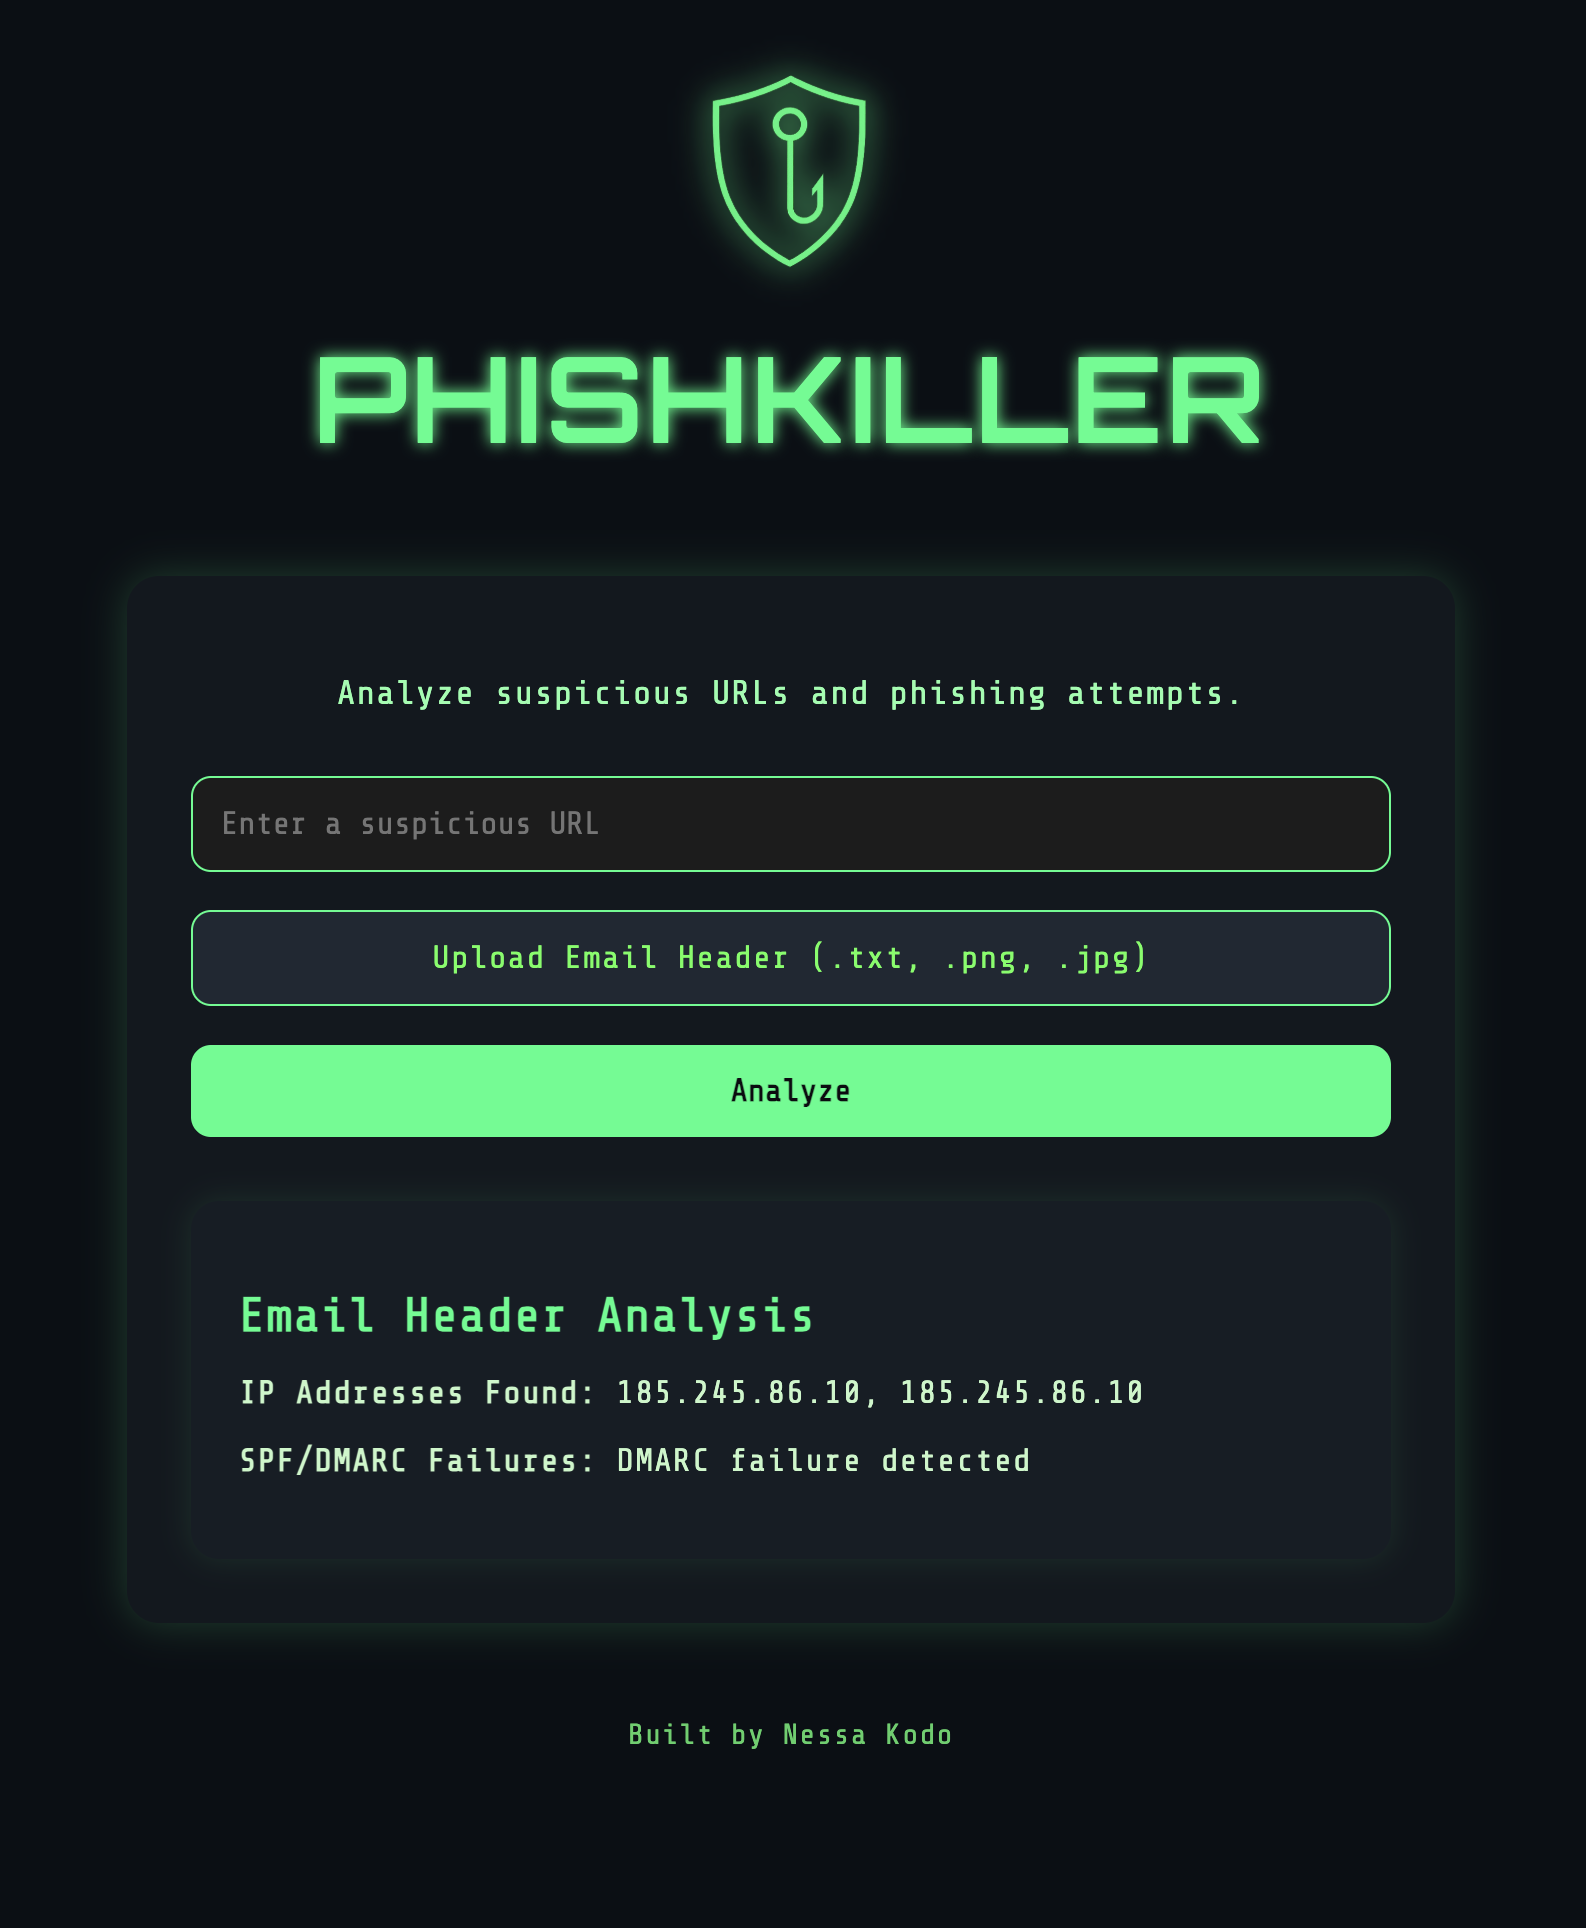
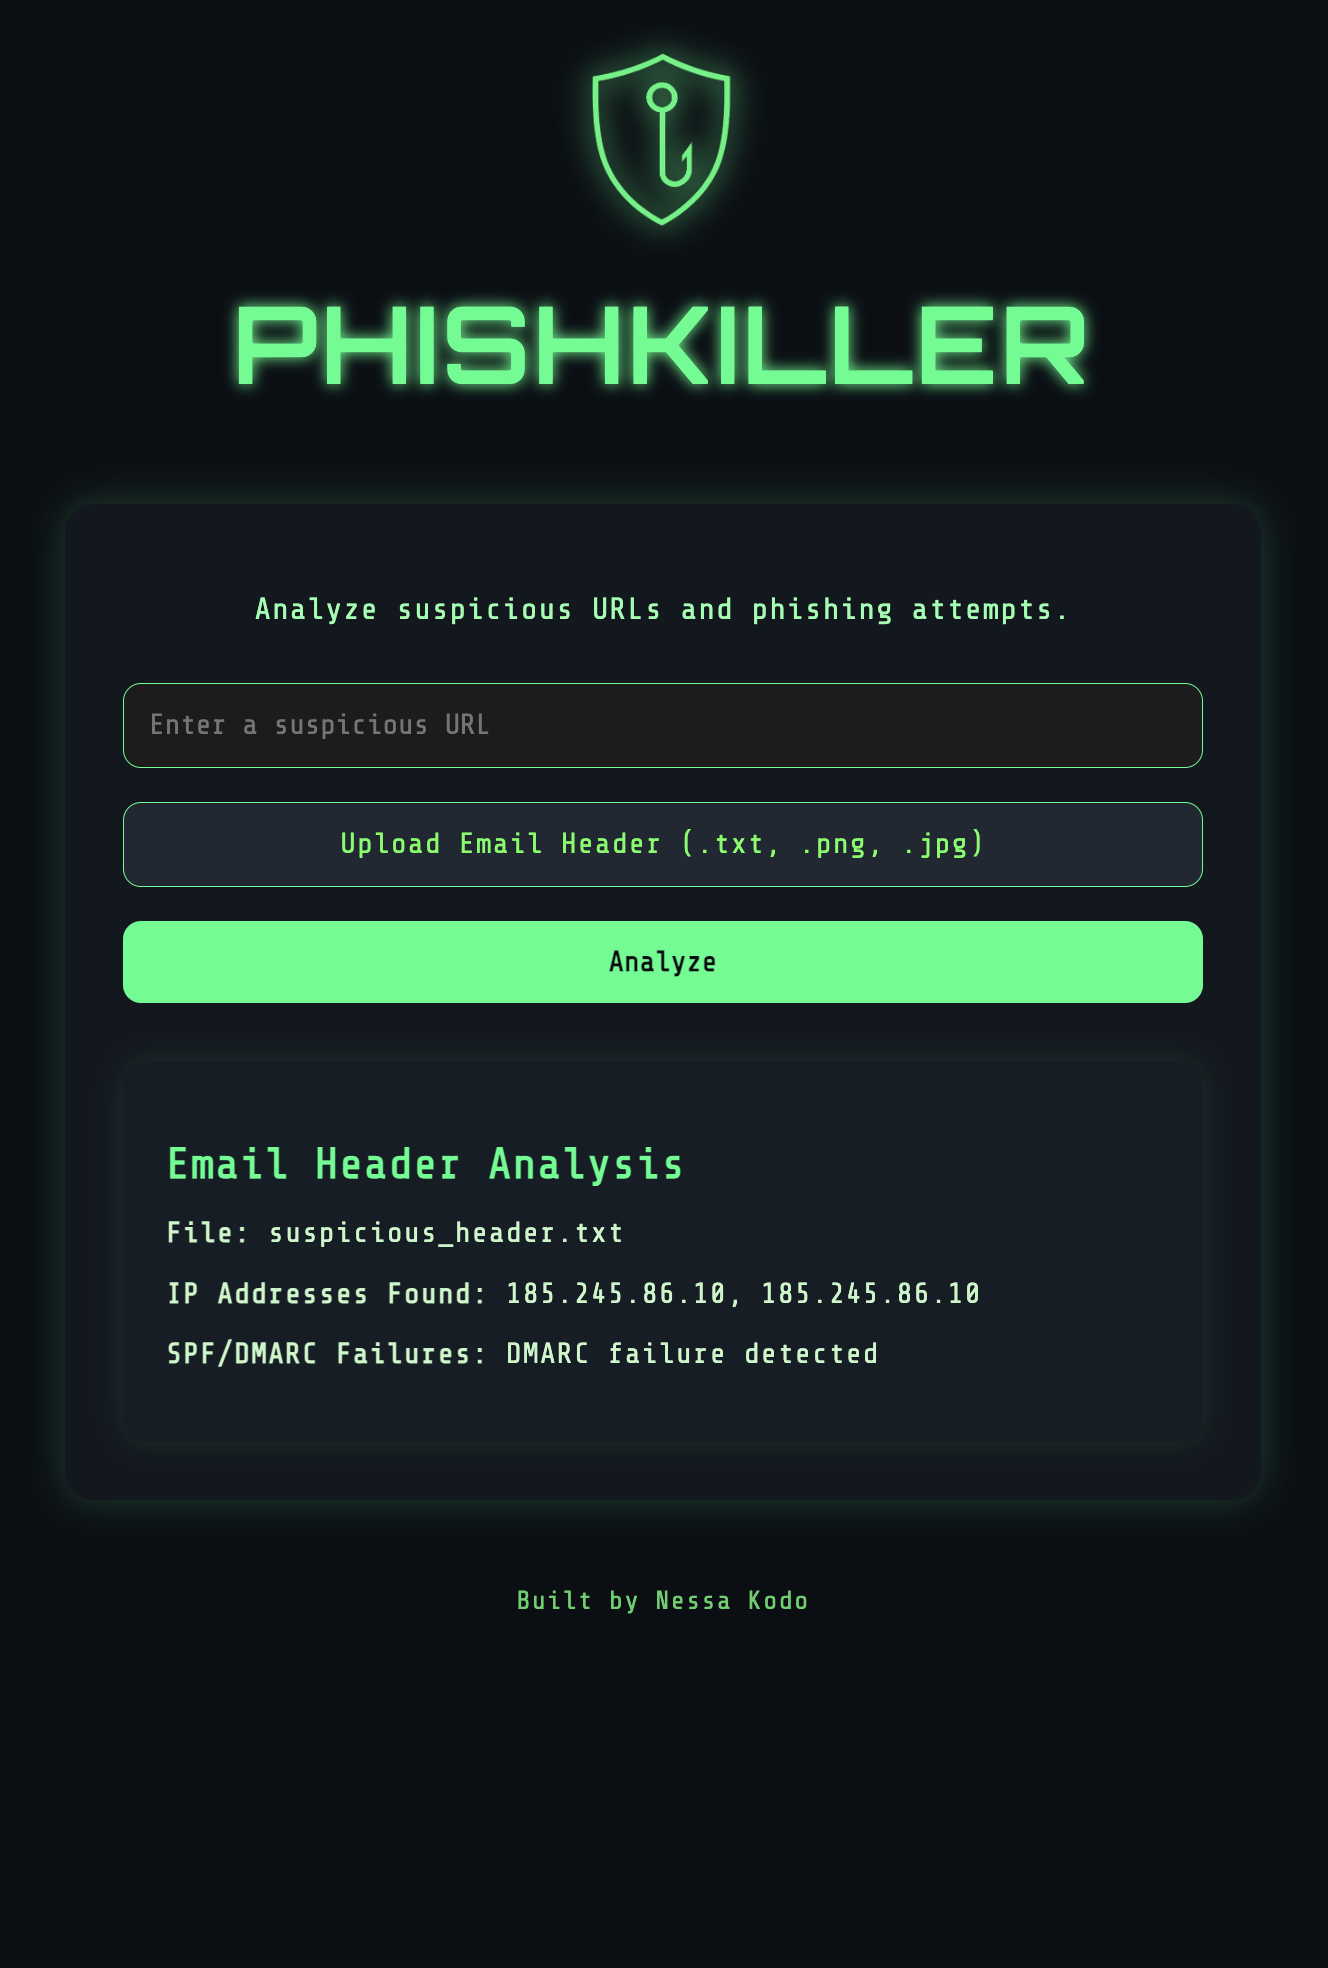
additions to work with real gmail headers and output for no phishing detection updated

diff --git a/templates/index.html b/templates/index.html
@@ -251,10 +251,20 @@
     {% if header_analysis %}
     <div class="card">
       <h2>Email Header Analysis</h2>
+    
+      {% if header_analysis.filename %}
+      <p><strong>File:</strong> {{ header_analysis.filename }}</p>
+      {% endif %}
+    
+      {% if header_analysis.ocr_error %}
+      <p style="color: red;"><strong>OCR Error:</strong> {{ header_analysis.ocr_error }}</p>
+      {% endif %}
+    
       <p><strong>IP Addresses Found:</strong> {{ header_analysis.ips | join(', ') }}</p>
       <p><strong>SPF/DMARC Failures:</strong> {{ header_analysis.spf_dmarc_failures | join(', ') }}</p>
     </div>
     {% endif %}
+    
 
   </div>
 

diff --git a/app.py b/app.py
@@ -1,10 +1,16 @@
-from flask import Flask, render_template, request
+from flask import Flask, render_template, request, flash
 from analyzer import analyze_url, analyze_header_text
 import pytesseract
-from PIL import Image
+from PIL import Image, ImageEnhance, ImageFilter
 import io
 
+# Tell pytesseract where Tesseract is (especially important for Mac/Linux)
+# pytesseract.pytesseract.tesseract_cmd = '/usr/local/bin/tesseract'
+pytesseract.pytesseract.tesseract_cmd = '/opt/homebrew/bin/tesseract'
+
+
 app = Flask(__name__)
+app.secret_key = 'your_secret_key_here'  # Needed for flash messages
 
 @app.route('/', methods=['GET', 'POST'])
 def home():
@@ -25,13 +31,50 @@ def home():
             header_file = request.files['header']
             filename = header_file.filename.lower()
 
-            if filename.endswith(('.png', '.jpg', '.jpeg')):
-                image = Image.open(io.BytesIO(header_file.read()))
-                header_text = pytesseract.image_to_string(image)
-            else:
-                header_text = header_file.read().decode('utf-8')
+            header_text = ""
+            ocr_error = None
 
-            results = analyze_header_text(header_text)
+            if filename.endswith(('.png', '.jpg', '.jpeg')):
+                try:
+                    # Open image safely
+                    image = Image.open(io.BytesIO(header_file.read()))
+                    
+                    # Standardize to RGB
+                    image = image.convert('RGB')
+                    
+                    # Convert to Grayscale
+                    image = image.convert('L')
+                    
+                    # Enhance Contrast
+                    enhancer = ImageEnhance.Contrast(image)
+                    image = enhancer.enhance(2.0)  # 2x contrast
+                    
+                    # Slightly sharpen
+                    image = image.filter(ImageFilter.SHARPEN)
+
+                    # Run OCR
+                    header_text = pytesseract.image_to_string(image)
+
+                except Exception as e:
+                    ocr_error = f"OCR failed: {str(e)}. Please upload a .txt file instead."
+            else:
+                try:
+                    header_text = header_file.read().decode('utf-8')
+                except Exception as e:
+                    ocr_error = f"Failed to read file: {str(e)}"
+
+            if header_text.strip():
+                results = analyze_header_text(header_text)
+            else:
+                results = {
+                    'ips': [],
+                    'spf_dmarc_failures': []
+                }
+
+            results['filename'] = filename
+            if ocr_error:
+                results['ocr_error'] = ocr_error
+
             header_analysis = results
 
     return render_template('index.html', url_analysis=url_analysis, header_analysis=header_analysis)

diff --git a/analyzer.py b/analyzer.py
@@ -25,8 +25,16 @@ def analyze_url(url):
     if "://" not in url or " " in url:
         reasons.append("Malformed URL structure")
 
-    if reasons:
-        risk_level = "High" if len(reasons) >= 3 else "Medium"
+    if not reasons:
+        reasons.append("No suspicious elements detected in URL")
+        risk_level = "Low"
+    else:
+        if len(reasons) >= 3:
+            risk_level = "High"
+        elif len(reasons) >= 2:
+            risk_level = "Medium"
+        else:
+            risk_level = "Low"
     
     return risk_level, reasons
 
@@ -40,9 +48,16 @@ def analyze_header_text(header_text):
 
     if re.search(spf_fail_pattern, header_text.lower()):
         spf_dmarc_failures.append("SPF failure detected")
+    else:
+        spf_dmarc_failures.append("SPF: None")
 
     if re.search(dmarc_fail_pattern, header_text.lower()):
         spf_dmarc_failures.append("DMARC failure detected")
+    else:
+        spf_dmarc_failures.append("DMARC: None")
+
+    if not ips and not any("failure" in failure.lower() for failure in spf_dmarc_failures):
+        spf_dmarc_failures.append("No suspicious elements detected in email headers")
 
     return {
         'ips': ips,

diff --git a/README.md b/README.md
@@ -40,7 +40,7 @@ PhishKiller v2 represents a major upgrade:
 |:---|:---|:---|
 | UI | Streamlit app, full page | Modular Flask web app, centered |
 | Header Upload | Only `.txt` files | `.txt`, `.png`, `.jpg` with OCR |
-| Deployment | Streamlit Cloud | Render, Railway, Fly.io |
+| Deployment | Streamlit Cloud | Render |
 | Design | Basic terminal feel | Hacker-modern, responsive |
 | Performance | Good for small demos | Faster, scalable |
 
@@ -59,13 +59,13 @@ PhishKiller v2 represents a major upgrade:
 Install dependencies:
 
 ```bash
-pip install -r requirements.txt
+pip3 install -r requirements.txt
 ```
 
 Run locally:
 
 ```bash
-python app.py
+python3 app.py
 ```
 
 Visit:
@@ -78,11 +78,9 @@ http://localhost:8000
 
 ## 𝘋𝘦𝘱𝘭𝘰𝘺 𝘖𝘯𝘭𝘪𝘯𝘦
 
-PhishKiller v2 can be permanently hosted on:
+PhishKiller v2 has been directly hosted on:
 
 - [Render](https://render.com/)
-- [Railway](https://railway.app/)
-- [Fly.io](https://fly.io/)
 
 You need:
 
@@ -121,6 +119,8 @@ Example `.png`:
 ---
 
 ## 𝘛𝘦𝘴𝘵 𝘊𝘢𝘴𝘦𝘴 (𝘍𝘰𝘳 𝘜𝘙𝘓 𝘈𝘯𝘢𝘭𝘺𝘴𝘪𝘴)
+
+*Do NOT click these, they are for testing purposes only.*
 
 | Suspicious URL                             | Detection Reason                                  |
 |:-------------------------------------------|:--------------------------------------------------|
